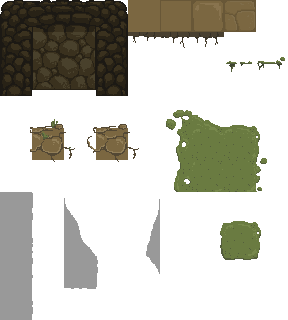
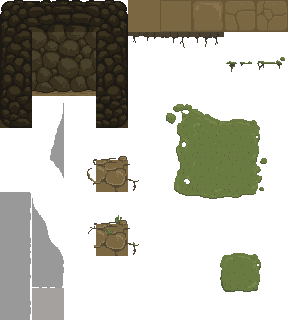
new tiles

diff --git a/public/js/level_builder.js b/public/js/level_builder.js
@@ -172,6 +172,112 @@ var LevelBuilder = Class.extend({
         this.square(7, 15, 'hanging2');
         this.square(7, 15, 'hanging slime1');
 
+        this.square(8, 4, 'normal floor');
+        this.square(8, 5, 'normal floor');
+        this.square(8, 6, 'square floor');
+        this.square(8, 7, 'square floor');
+        this.square(8, 8, 'normal floor');
+        this.square(8, 9, 'normal floor');
+        this.square(8, 10, 'normal floor');
+        this.square(8, 11, 'rocks');
+        this.square(8, 12, 'normal floor');
+        this.square(8, 13, 'slime top right');
+        this.square(8, 14, 'slime bottom right');
+
+        this.square(9, 4, 'normal floor');
+        this.square(9, 5, 'square floor');
+        this.square(9, 6, 'square floor');
+        this.square(9, 7, 'square floor');
+        this.square(9, 8, 'normal floor');
+        this.square(9, 9, 'rocks');
+        this.square(9, 10, 'normal floor');
+        this.square(9, 11, 'normal floor');
+        this.square(9, 12, 'normal floor');
+        this.square(9, 13, 'normal floor');
+        this.square(9, 14, 'normal floor');
+
+        this.square(10, 4, 'normal floor');
+        this.square(10, 5, 'normal floor');
+        this.square(10, 6, 'normal floor');
+        this.square(10, 7, 'normal floor');
+        this.square(10, 8, 'normal floor');
+        this.square(10, 9, 'normal floor');
+        this.square(10, 10, 'normal floor');
+        this.square(10, 11, 'normal floor');
+        this.square(10, 12, 'normal floor');
+        this.square(10, 13, 'normal floor');
+        this.square(10, 14, 'normal floor');
+
+        this.square(11, 4, 'normal floor');
+        this.square(11, 5, 'normal floor');
+        this.square(11, 6, 'normal floor');
+        this.square(11, 7, 'normal floor');
+        this.square(11, 8, 'normal floor');
+        this.square(11, 9, 'normal floor');
+        this.square(11, 10, 'normal floor');
+        this.square(11, 11, 'normal floor');
+        this.square(11, 12, 'normal floor');
+        this.square(11, 13, 'normal floor');
+        this.square(11, 14, 'normal floor');
+
+        this.square(12, 4, 'normal floor');
+        this.square(12, 5, 'normal floor');
+        this.square(12, 6, 'normal floor');
+        this.square(12, 7, 'normal floor');
+        this.square(12, 8, 'normal floor');
+        this.square(12, 9, 'normal floor');
+        this.square(12, 10, 'normal floor');
+        this.square(12, 11, 'normal floor');
+        this.square(12, 12, 'normal floor');
+        this.square(12, 13, 'normal floor');
+        this.square(12, 14, 'normal floor');
+
+        this.square(13, 4, 'normal floor');
+        this.square(13, 5, 'normal floor');
+        this.square(13, 6, 'normal floor');
+        this.square(13, 7, 'normal floor');
+        this.square(13, 8, 'normal floor');
+        this.square(13, 9, 'normal floor');
+        this.square(13, 10, 'normal floor');
+        this.square(13, 11, 'normal floor');
+        this.square(13, 12, 'normal floor');
+        this.square(13, 13, 'normal floor');
+        this.square(13, 14, 'normal floor');
+
+        this.square(14, 4, 'normal floor');
+        this.square(14, 5, 'normal floor');
+        this.square(14, 6, 'normal floor');
+        this.square(14, 7, 'normal floor');
+        this.square(14, 8, 'normal floor');
+        this.square(14, 9, 'normal floor');
+        this.square(14, 10, 'normal floor');
+        this.square(14, 11, 'normal floor');
+        this.square(14, 12, 'normal floor');
+        this.square(14, 13, 'normal floor');
+        this.square(14, 14, 'normal floor');
+
+        this.square(15, 4, 'normal floor');
+        this.square(15, 5, 'normal floor');
+        this.square(15, 6, 'normal floor');
+        this.square(15, 7, 'normal floor');
+        this.square(15, 8, 'normal floor');
+        this.square(15, 9, 'normal floor');
+        this.square(15, 10, 'normal floor');
+        this.square(15, 11, 'normal floor');
+        this.square(15, 12, 'normal floor');
+        this.square(15, 13, 'normal floor');
+        this.square(15, 14, 'normal floor');
+
+        this.square(16, 5, 'normal floor');
+        this.square(16, 6, 'normal floor');
+        this.square(16, 7, 'normal floor');
+        this.square(16, 8, 'normal floor');
+        this.square(16, 9, 'normal floor');
+        this.square(16, 10, 'normal floor');
+        this.square(16, 11, 'normal floor');
+        this.square(16, 12, 'normal floor');
+        this.square(16, 13, 'normal floor');
+
         this.fillShadow(5, 5, 5, 13, 'shadow', 'shadow');
 
         // this.floors.push(new Floor((new Position(9, 11)), 'dark brown'));

diff --git a/public/js/sprites/floor.js b/public/js/sprites/floor.js
@@ -18,8 +18,8 @@ var Floor = Sprite.extend({
             this.spriteSheetY = TILE_SIZE * 0;
         }
         else if (color === 'rocks') {
-            this.spriteSheetX = TILE_SIZE * 1;
-            this.spriteSheetY = TILE_SIZE * 4;
+            this.spriteSheetX = TILE_SIZE * 3;
+            this.spriteSheetY = TILE_SIZE * 5;
         }
         else if (color === 'cracked floor') {
             this.spriteSheetX = TILE_SIZE * 7;
@@ -31,6 +31,14 @@ var Floor = Sprite.extend({
         }
         else if (color === 'slime bottom left') {
             this.spriteSheetX = TILE_SIZE * 6;
+            this.spriteSheetY = TILE_SIZE * 5;
+        }
+        else if (color === 'slime top right') {
+            this.spriteSheetX = TILE_SIZE * 7;
+            this.spriteSheetY = TILE_SIZE * 4;
+        }
+        else if (color === 'slime bottom right') {
+            this.spriteSheetX = TILE_SIZE * 7;
             this.spriteSheetY = TILE_SIZE * 5;
         }
         else if (color === 'hanging1') {
